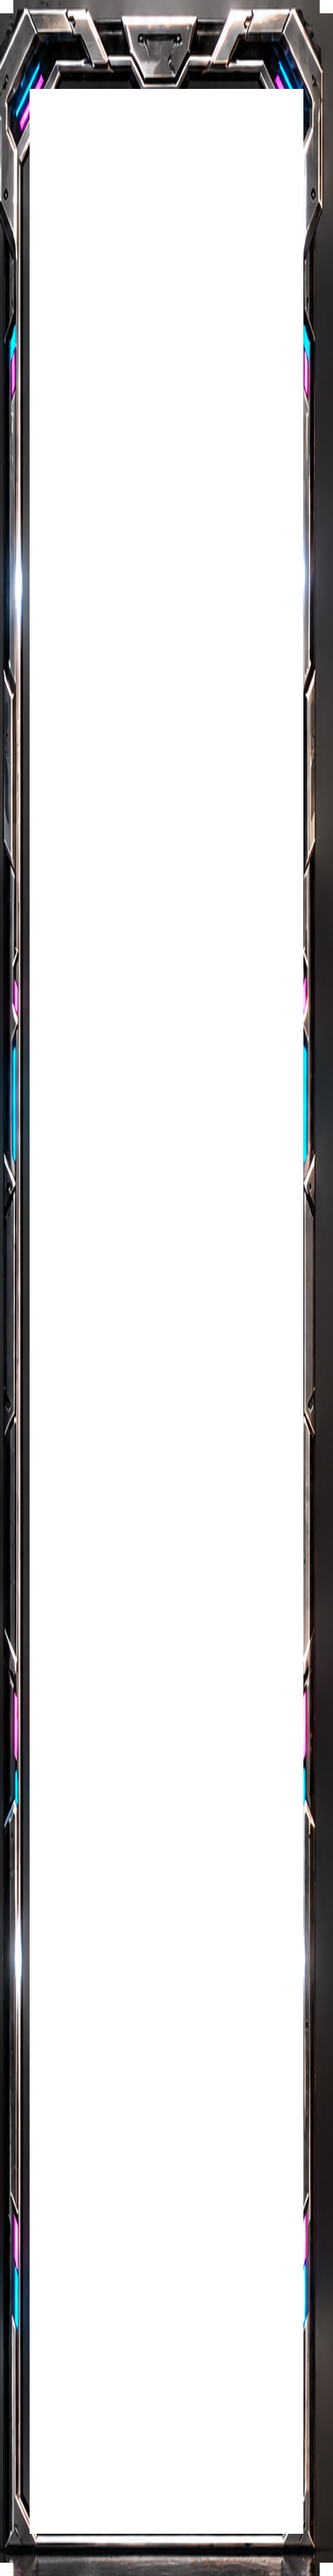
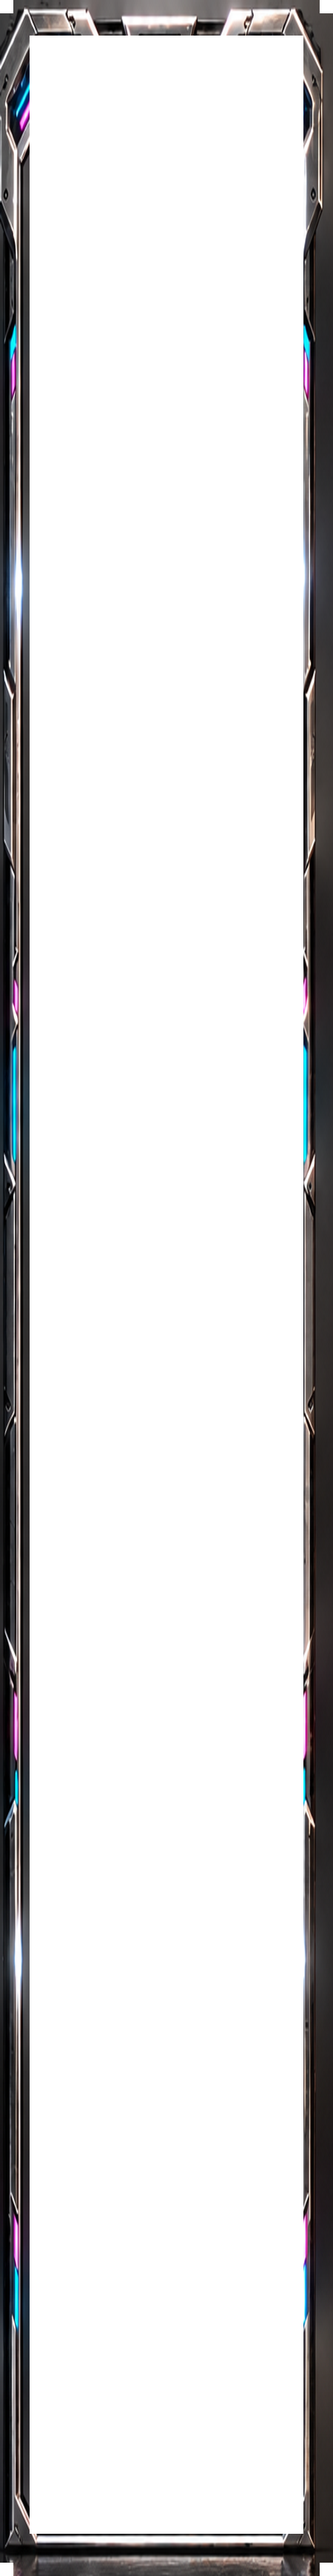
fix: remove selected gate top inset

Changed region(s): [[0.0933, 0.0, 0.9333, 0.0621]]

diff --git a/PROJECT-STATUS.md b/PROJECT-STATUS.md
@@ -1423,3 +1423,9 @@ PR: https://github.com/overvivi/vivigames/pull/1
 - 枠原画の透明窓を、見た目の推測ではなく中心列の金属終端で実測した。旧マスクは原画`72〜1392px`だけを透明化しており、黒い内張りが上に約22px・下に約48px残っていた
 - 金属を残せる実寸`50〜1440px`へ透明窓を広げ、ゲーム規格では`top: 120 / height: 3300`へ変更。背景は枠の内側で0〜100%まで届き、上下の黒帯を残さない
 - ゲート全体のY座標や共通街背景の境界は変更していない。型チェック・Remaster公開用ビルド・ルート`npm run verify`成功。公開はユーザーの明示`push`待ち
+
+### 2026-08-29 — Codex（Remaster：選択枠上端の張り出し内張りを除去）
+
+- 選択枠は中央装飾が原画上`0〜51px`まで深く張り出し、通常枠と同じ透明窓上端では背景の前に黒い帯が残った。選択枠だけ透明窓を原画`20〜1440px`相当へ広げた
+- 張り出しの内側は背景が通り、上端は細い金属ラインだけが残る。下端と同じく背景が途中で止まらない、簡素な選択枠にした
+- 型チェック・Remaster公開用ビルド・ルート`npm run verify`成功。公開はユーザーの明示`push`待ち
